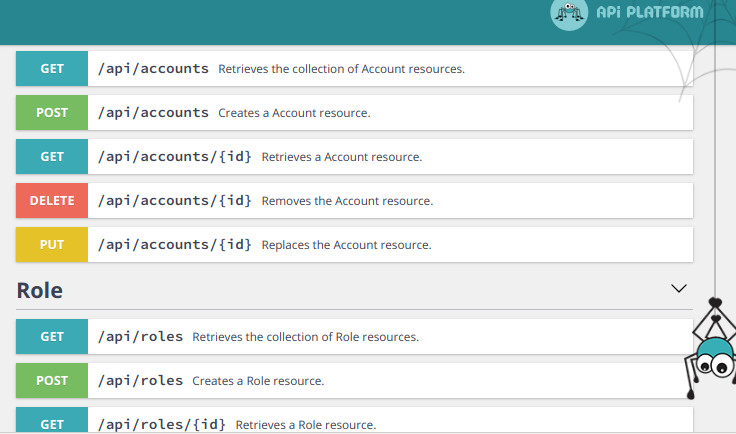
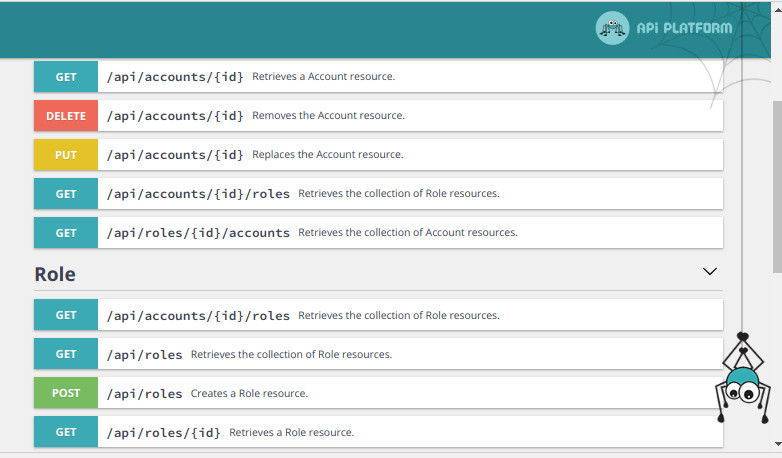
If we want to have nested resources endpoints like /accounts/{id}/roles to get account roles via special endpoint without using any filtering or custom actions, we have to add ApiSubresource annotation on the roles property in Account.php file.

Changed region(s): [[0.0, 0.0, 1.0, 1.0]]

diff --git a/src/Entity/Role.php b/src/Entity/Role.php
@@ -4,6 +4,7 @@ namespace App\Entity;
 
 use ApiPlatform\Core\Annotation\ApiResource;
 use ApiPlatform\Core\Annotation\ApiFilter;
+use ApiPlatform\Core\Annotation\ApiSubresource;
 use ApiPlatform\Core\Bridge\Doctrine\Orm\Filter\BooleanFilter;
 use Doctrine\Common\Collections\ArrayCollection;
 use Doctrine\Common\Collections\Collection;
@@ -24,6 +25,7 @@ class Role {
 
   /**
    * @ORM\ManyToMany(targetEntity="App\Entity\Account", inversedBy="roles")
+   * @ApiSubresource(maxDepth=1)
    */
   private $accounts;
 

diff --git a/src/Entity/Account.php b/src/Entity/Account.php
@@ -4,6 +4,7 @@ namespace App\Entity;
 
 use ApiPlatform\Core\Annotation\ApiResource;
 use ApiPlatform\Core\Annotation\ApiFilter;
+use ApiPlatform\Core\Annotation\ApiSubresource;
 use ApiPlatform\Core\Bridge\Doctrine\Orm\Filter\BooleanFilter;
 use Doctrine\Common\Collections\ArrayCollection;
 use Doctrine\Common\Collections\Collection;
@@ -36,6 +37,7 @@ class Account {
 
   /**
    * @ORM\ManyToMany(targetEntity="App\Entity\Role", mappedBy="accounts")
+   * @ApiSubresource(maxDepth=1)
    */
   private $roles;
 
